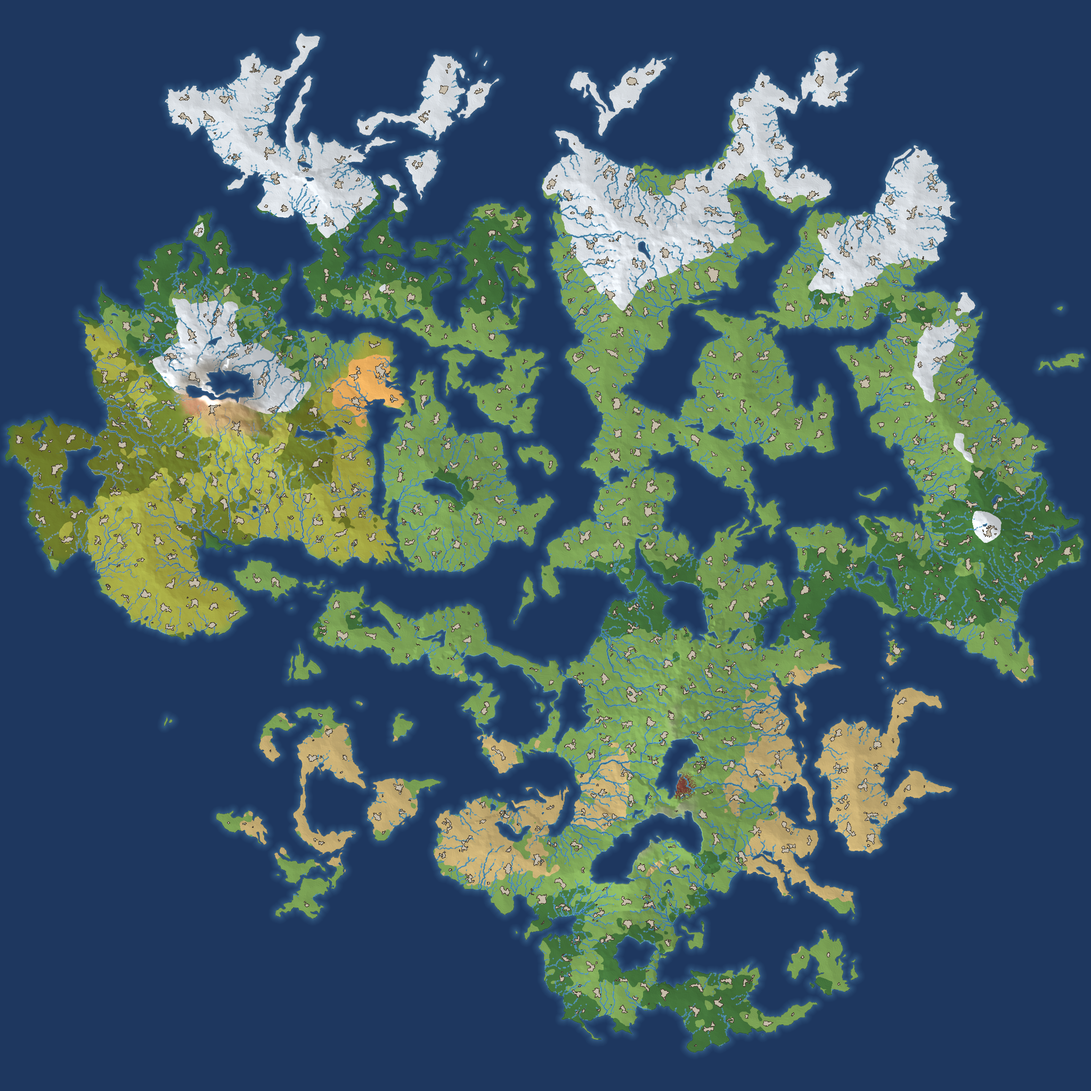
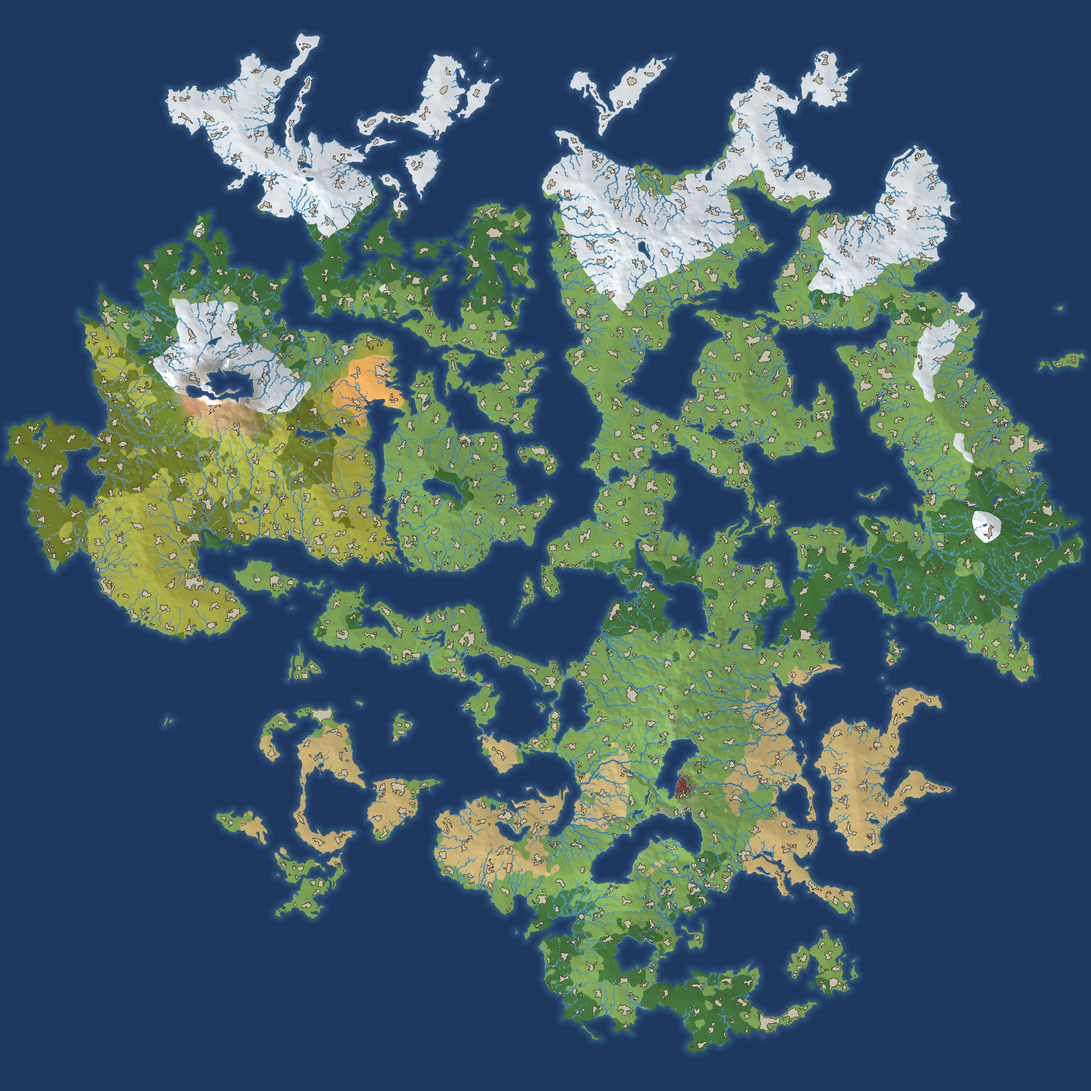
fix(worldgen): 剪影三连修——A(s)=12000·s 过零（空城 0 面积）；净空带按'装得下目标面积'降档 40→24→12→6→0（修蚀空整城：253 缺画→0，大城全活）；同步 E 图

diff --git a/tools/worldgen/l1/blob_v2_generate.py b/tools/worldgen/l1/blob_v2_generate.py
@@ -64,16 +64,13 @@ def djb2(s: str) -> int:
 
 
 def r_ref_of(level, s, area_p, lv_bands):
-    """尺度半径（归一化，创始人 2026-09-27：剪影按面积成正比 + 整体缩小）：
-    目标面积线性 A(s) = a_min + (a_max−a_min)·s（s=population_score 0..1），
-    半径开根号导出 R = sqrt(A/(π·k))——面积严格随规模线性，不再按 level 分带、
-    不按直径映射（直径映射面积二次膨胀）。a_min/a_max 取 area 段
-    （a_max=大城地块容量 p75，整体收缩让大城基本装进自己地块）。level 仅保签容错。"""
+    """尺度半径（归一化，创始人 2026-09-27 口径）：
+    A(s) = a_max·s 过零——面积严格与规模成正比、空城面积为 0；
+    半径开根号导出 R = sqrt(A/(πk))；不按 level 分带、不按下限垫底。
+    装不下时由 max_fill 顶格缩到地块装得下为止（随机形状随 τ 自然重采样）。"""
     k = float(area_p.get("k", 0.9))
-    a_min = float(area_p.get("a_min_px2", 600.0))
     a_max = float(area_p.get("a_max_px2", 12000.0))
-    a = a_min + (a_max - a_min) * max(s, 0.0)
-    return math.sqrt(a / (math.pi * k))
+    return math.sqrt(max(a_max * max(s, 0.0), 0.0) / (math.pi * k))
 
 
 # ==================== 输入加载 ====================
@@ -399,8 +396,18 @@ def city_field_mask(city, s, tier_idx, ctx, p, lv_bands, fbm_cache, region_polys
     ld = ctx["world"]["land"][wy0:wy0 + W, wx0:wx0 + W]
     excl = (ld & (~wt) & (sl < p["exclusion"]["slope_hard"])).astype(np.float32)
     # 6.5 城块净空带：界内侧 margin 内禁建，并进排除层（τ 反解/种子/绿楔自动继承）
-    # ——建成区从源头缩回界内，不再靠剪裁切出直线硬边
-    clear = tile_clear_mask(city, wx0, wy0, W, float(p["contour"]["tile_clear_margin"]))
+    # ——建成区从源头缩回界内，不再靠剪裁切出直线硬边。
+    # 净空带自适应降档（创始人 2026-09-27：装不下就缩到装得下为止）：判据 =
+    # 可建区装得下本档目标面积才接受该 margin，装不下逐级 40→24→12→6→0；
+    # margin 0 仍装不下 = 地块容量不足，交给 max_fill 顶格填（纯地形性无建成区仍合法）
+    a_target = math.pi * r_ref * r_ref * float(p["area"]["k"])
+    base_margin = float(p["contour"]["tile_clear_margin"])
+    for margin in [base_margin, base_margin * 0.6, base_margin * 0.3,
+                   base_margin * 0.15, 0.0]:
+        clear = tile_clear_mask(city, wx0, wy0, W, margin)
+        buildable = excl if clear is None else (excl * clear)
+        if buildable.sum() >= a_target:
+            break
     if clear is not None:
         excl *= clear
     if region_polys:
